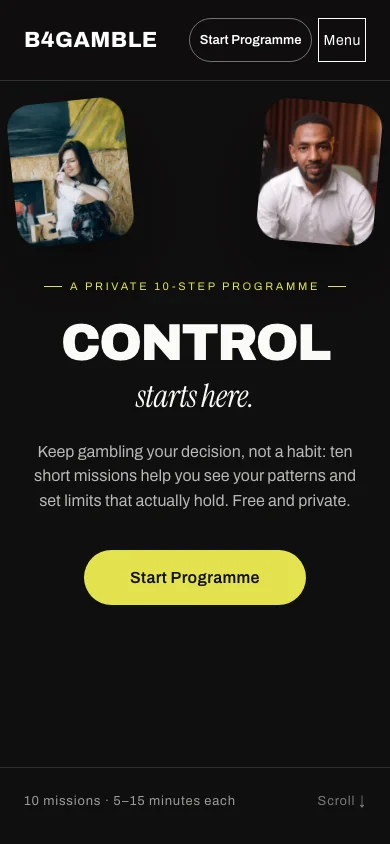
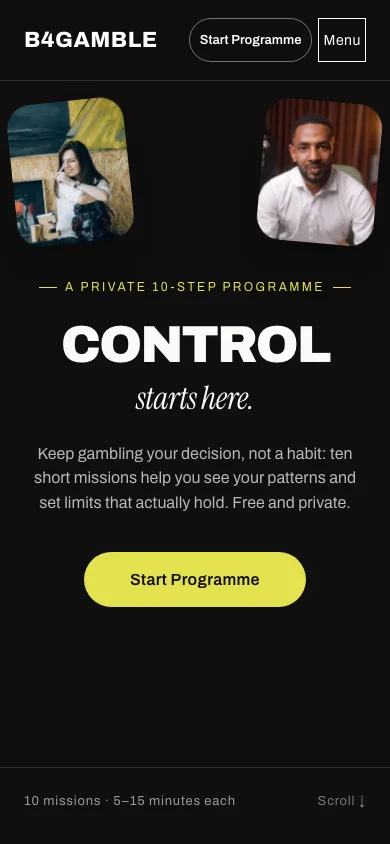
fix: satisfy home mobile typography gate

diff --git a/app/globals.css b/app/globals.css
@@ -229,8 +229,8 @@ body:has([data-protected-help-shell])::-webkit-scrollbar {
     flex: 0 0 18px !important;
   }
   [data-handoff-page="home"] [data-screen-label="Hero"] > div:first-child > div:not([data-tphoto]) > div:first-child > div:nth-child(2) {
-    font-size: 11px !important;
-    letter-spacing: .24em !important;
+    font-size: 12px !important;
+    letter-spacing: .2em !important;
   }
   [data-handoff-page="home"] [data-screen-label="Hero"] [data-tphoto="a"],
   [data-handoff-page="home"] [data-screen-label="Hero"] [data-tphoto="b"] {
